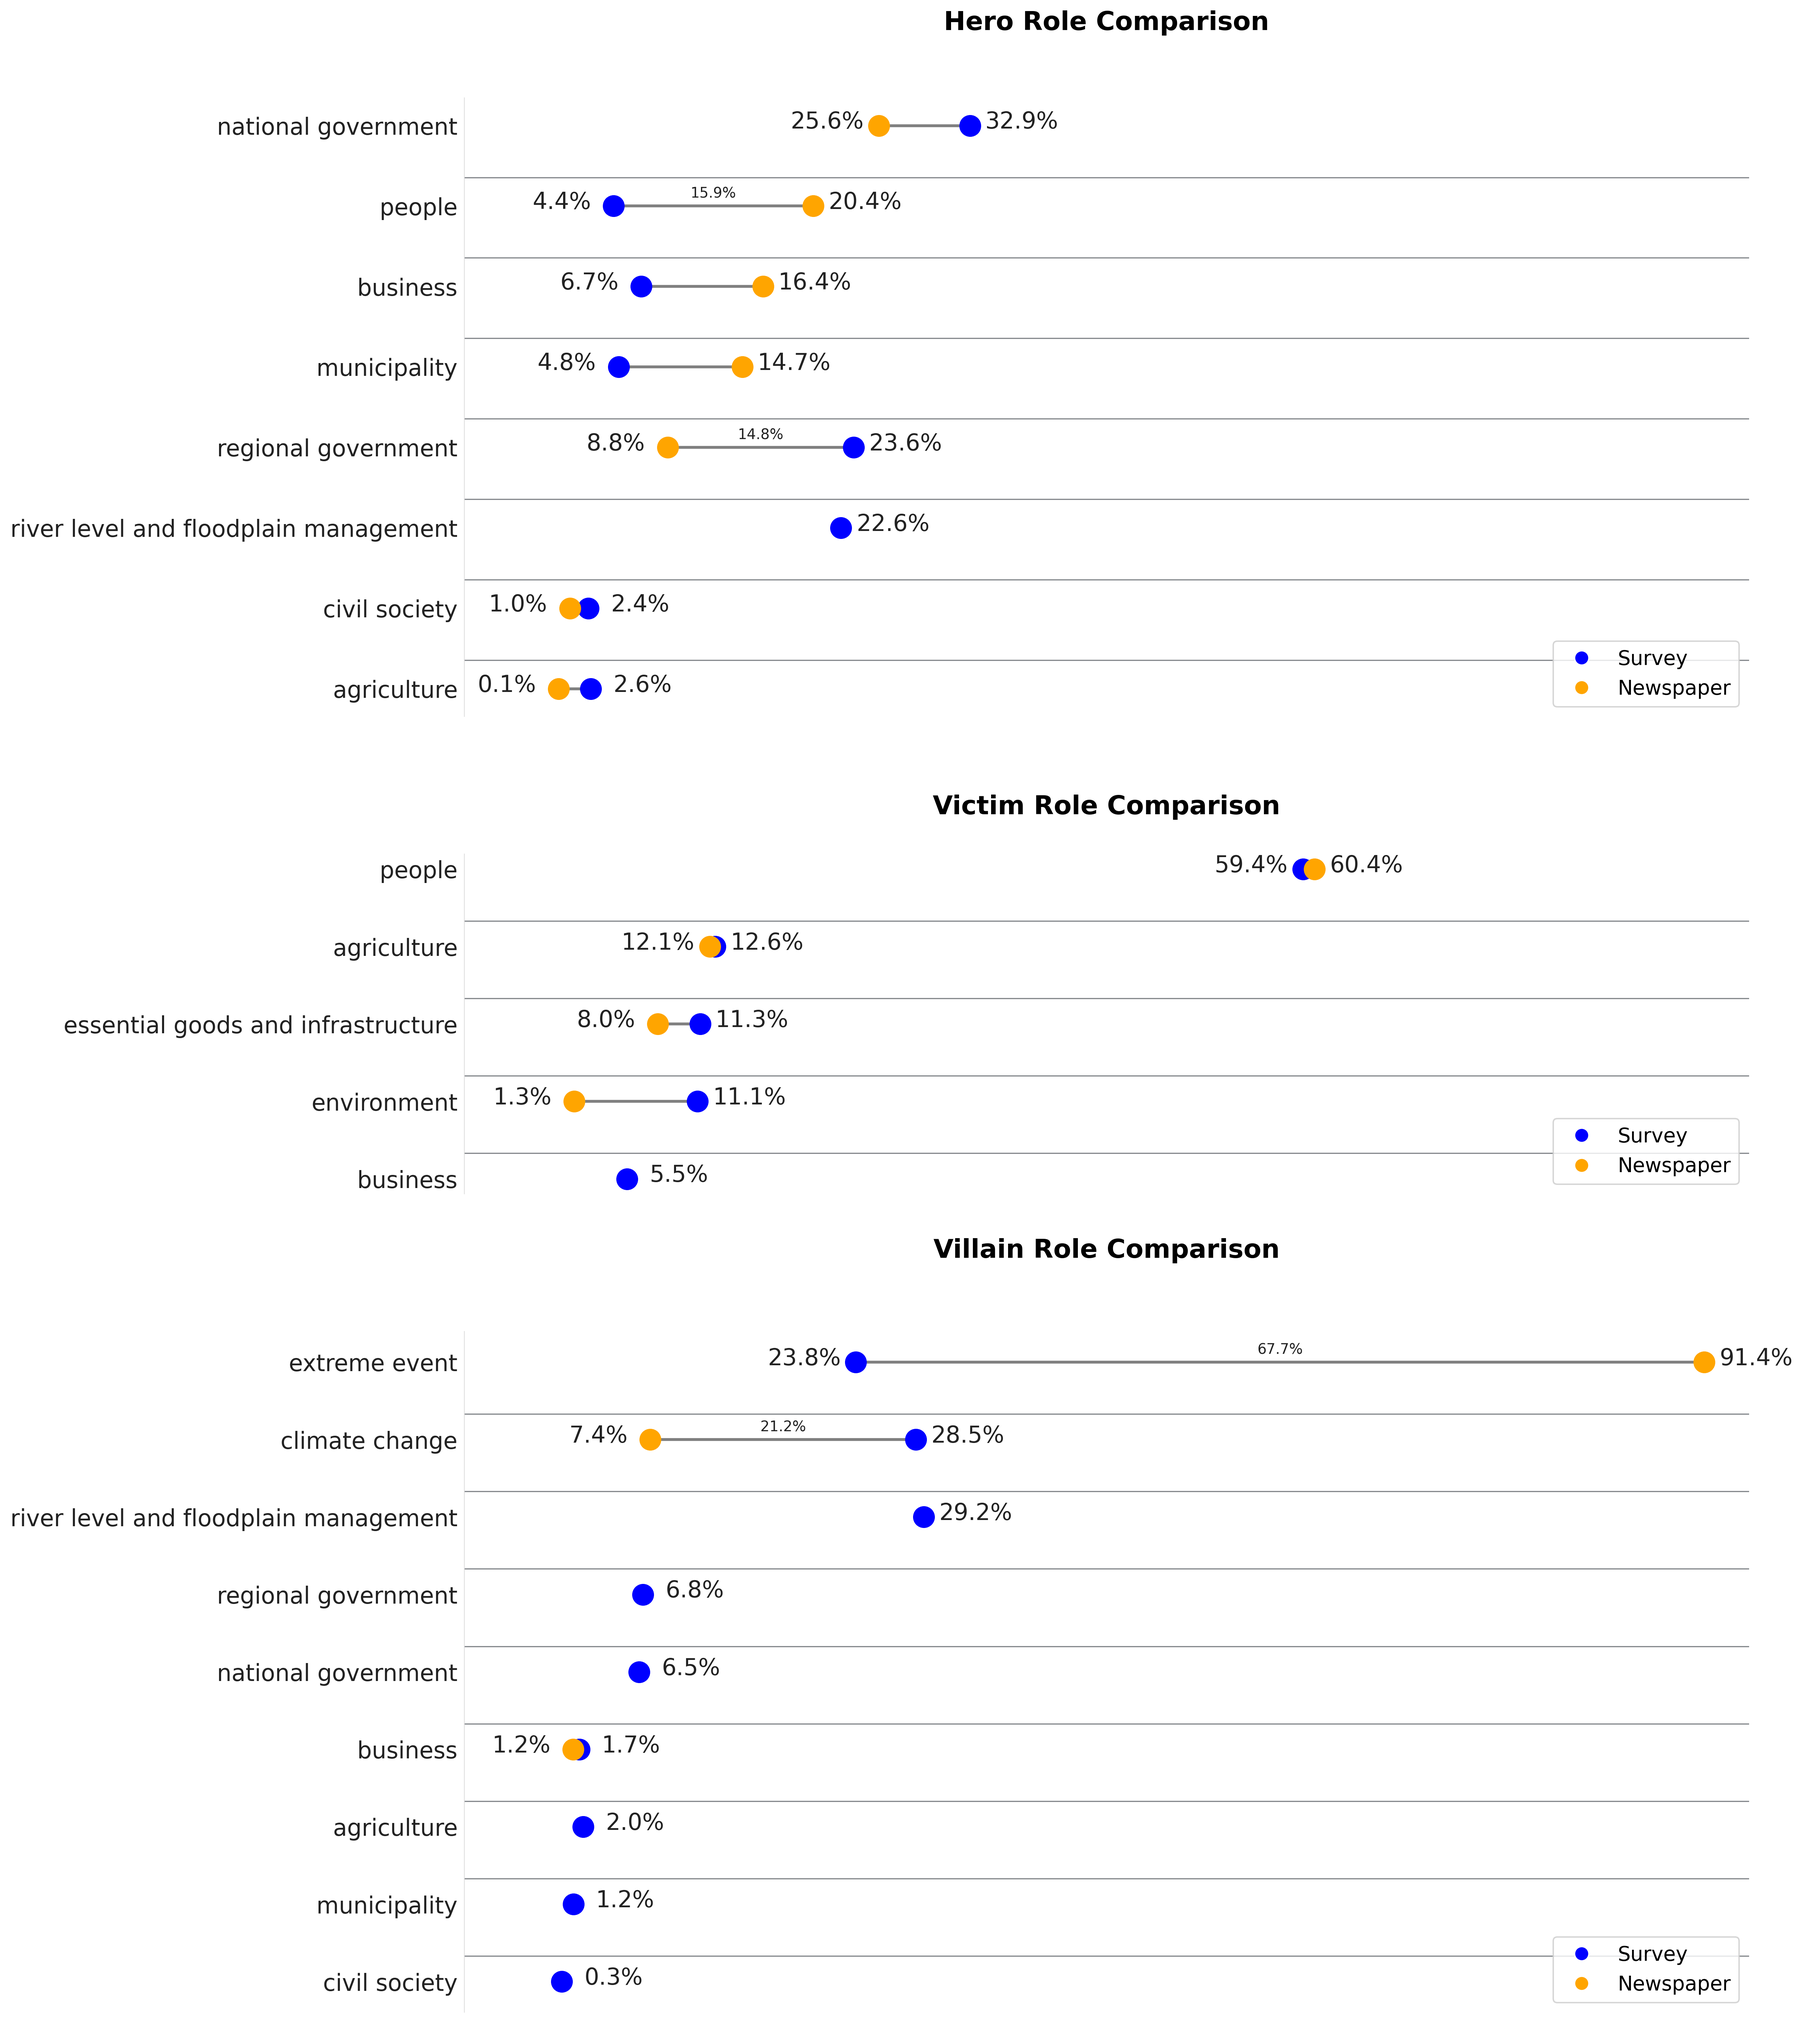
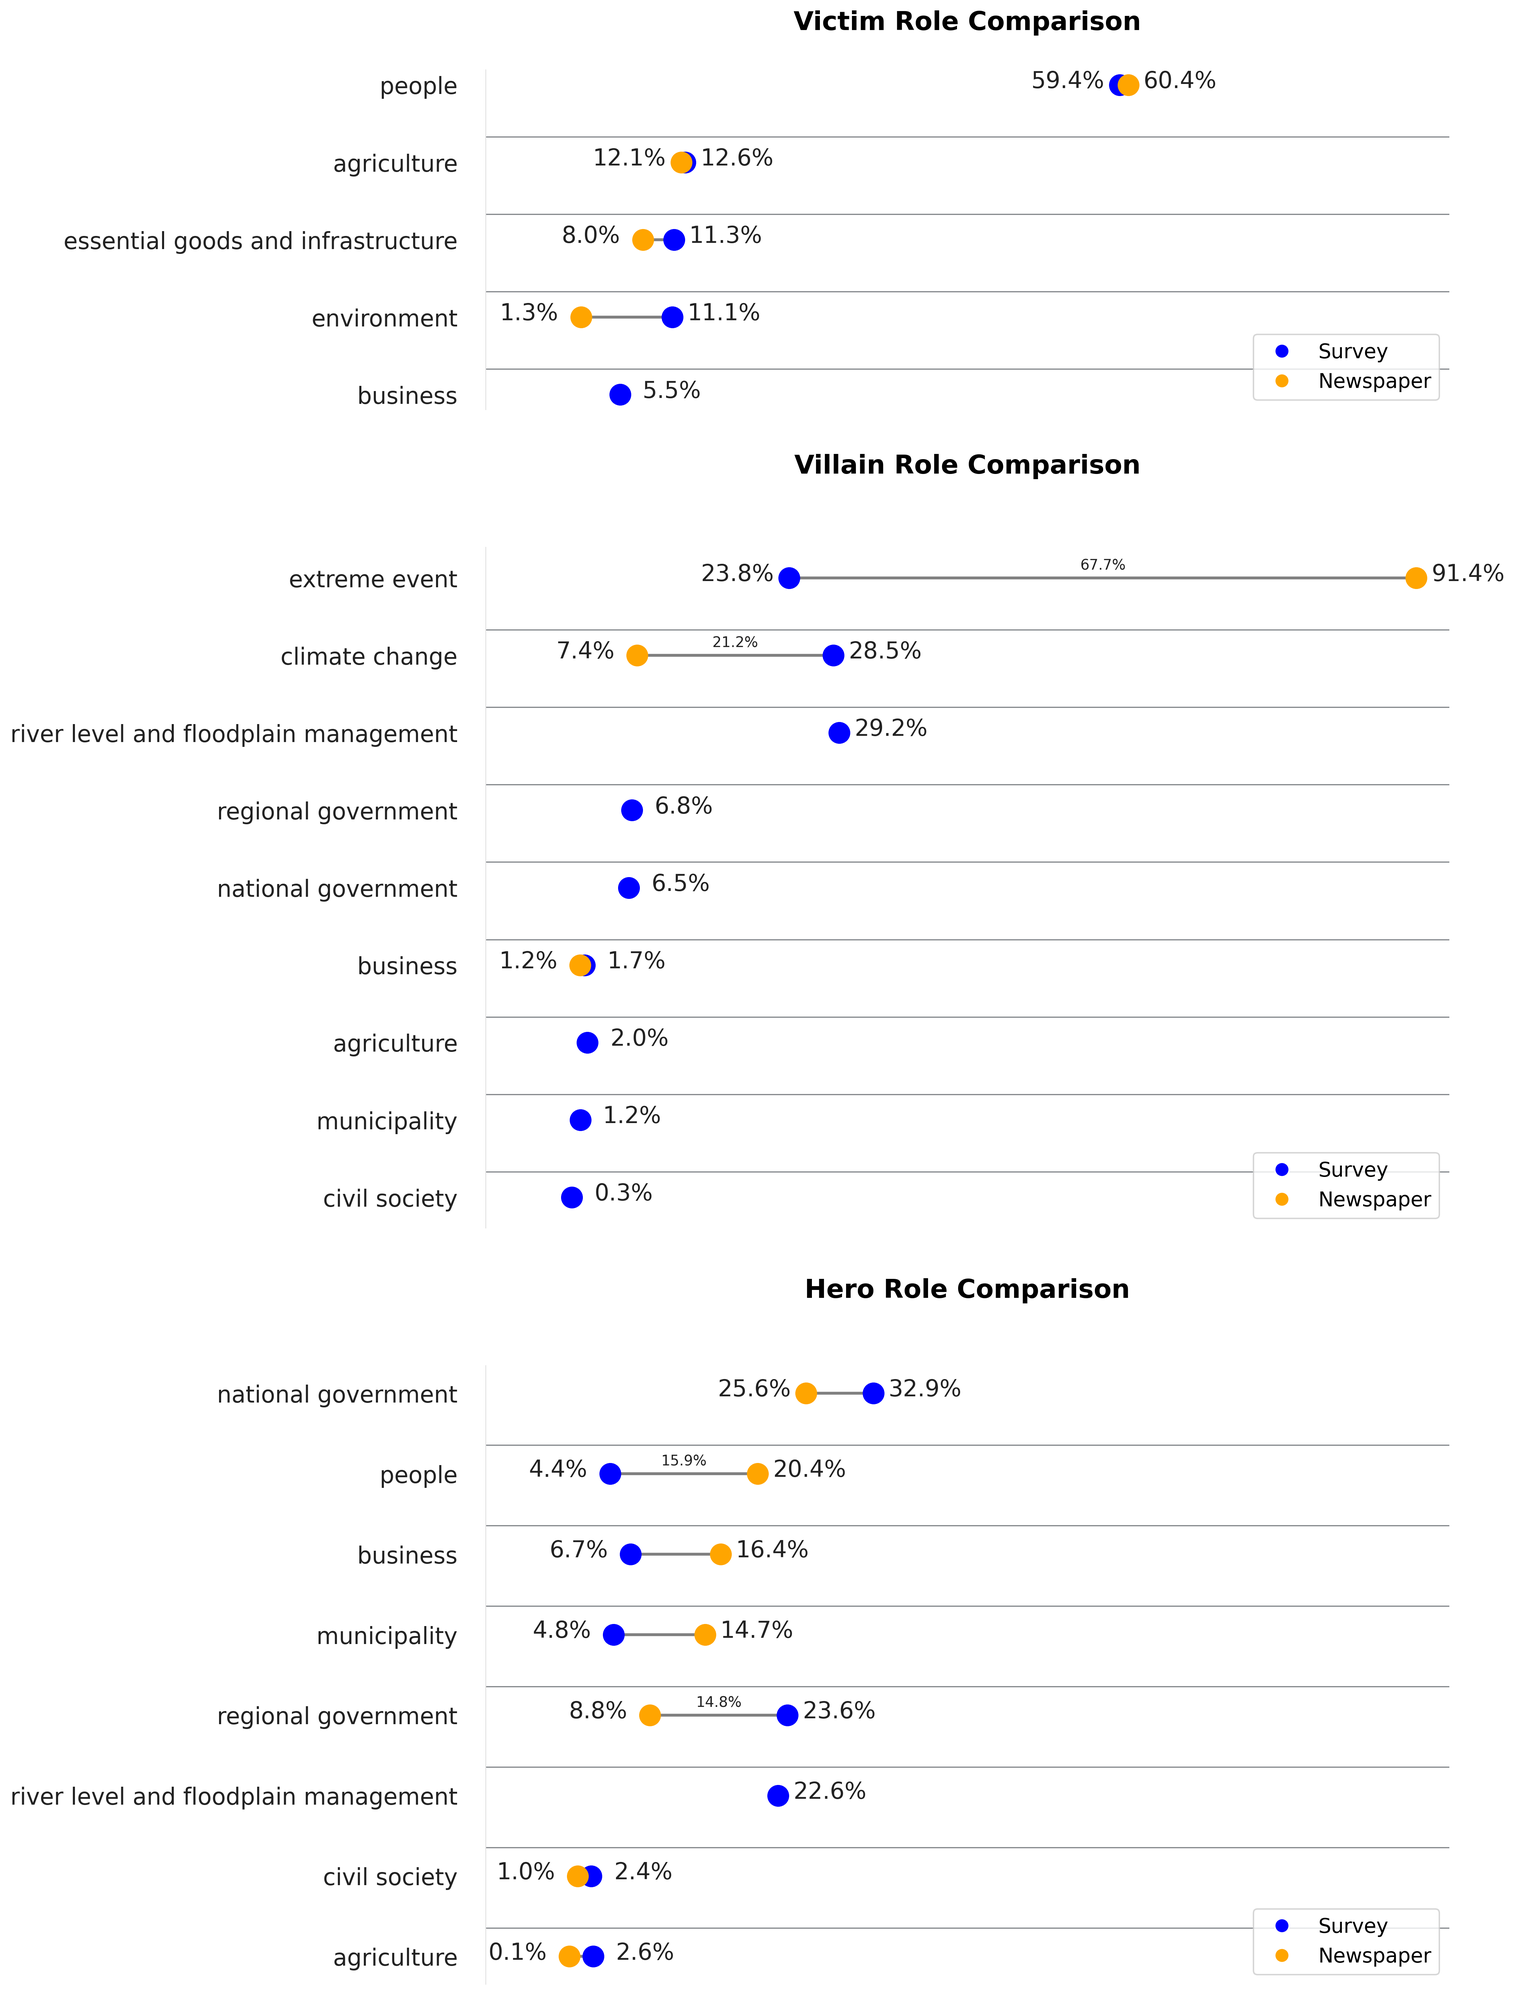
Adjust figure dimensions and axis configurations in results.py for improved visualization clarity

diff --git a/scripts/results.py b/scripts/results.py
@@ -832,19 +832,19 @@ if __name__ == "__main__":
     # Read the role count df
     role_counts = pd.read_excel(Path(ROOT)/ "data/survey_data/roles_comparisions.xlsx")
 
-    fig = plt.figure(figsize=(16, 24), dpi=300)
+    fig = plt.figure(figsize=(12, 24), dpi=300)
     gs = gridspec.GridSpec(
         3, 1,
-        height_ratios=[5, 2.75, 5.5],
+        height_ratios=[2.75, 5.5, 5],
         hspace=0.25
     )
 
     role_to_ax = {
-        'hero': fig.add_subplot(gs[0, 0]),
-        'victim': fig.add_subplot(gs[1, 0]),
-        'villain': fig.add_subplot(gs[2, 0])
+        'victim': fig.add_subplot(gs[0, 0]),
+        'villain': fig.add_subplot(gs[1, 0]),
+        'hero': fig.add_subplot(gs[2, 0])
     }
-    for role in ['hero', 'victim', 'villain']:
+    for role in ['victim', 'villain', 'hero']:
         ax = role_to_ax[role]
         df_role = role_counts[role_counts['role'] == role].copy()
         
@@ -951,19 +951,19 @@ if __name__ == "__main__":
 
 
             ax.text(
-                -8, actor,
+                -12, actor,
                 actor,
                 color='#222222', fontsize=16,
                 ha='right', va='center_baseline'
             )
 
             ax.hlines(
-                actor, xmin=-7.5, xmax=95,
+                actor, xmin=-9, xmax=95,
                 color='#818589', linewidth=0.8, zorder=0,
                 transform=offset_copy(ax.transData, fig=ax.figure, y=-0.5)
             )
 
-        ax.axvline(x=-7.5, color='#dddddd', linewidth=0.8)
+        ax.axvline(x=-9, color='#dddddd', linewidth=0.8)
 
         ax.text(
             0.5, 1.1,
@@ -974,7 +974,7 @@ if __name__ == "__main__":
         )
 
         # ax.set_xlabel('Percentage Share (%)', fontsize=14)
-        ax.set_xlim(-7.5, 95)
+        ax.set_xlim(-9, 95)
 
         legend_elements = [
             Line2D([0], [0], marker='o', color='w', label='Survey',
